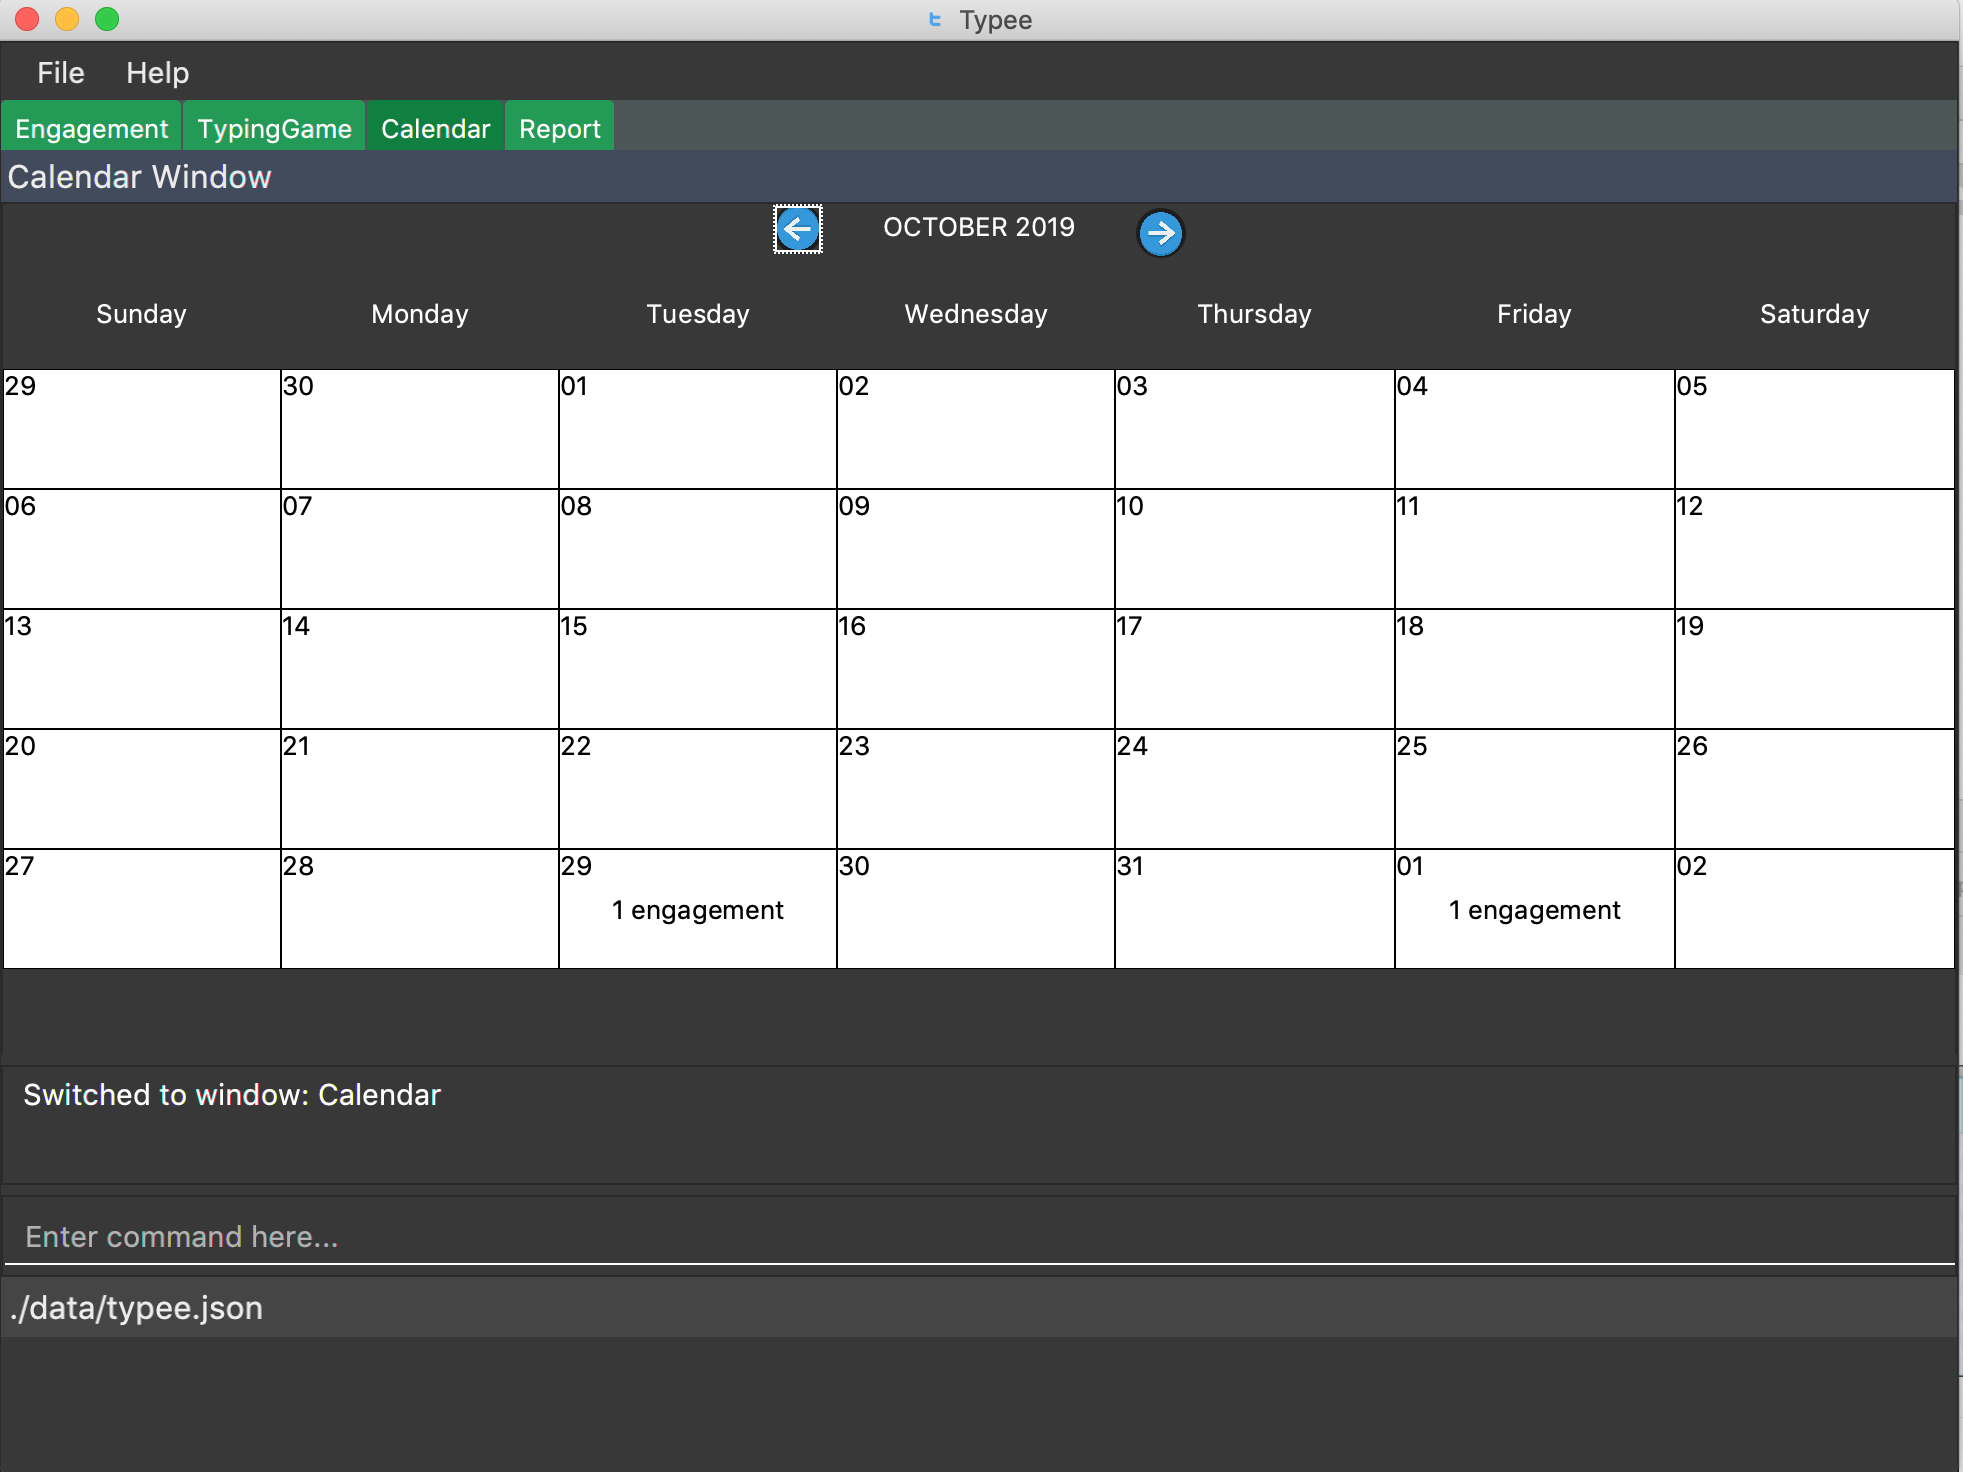
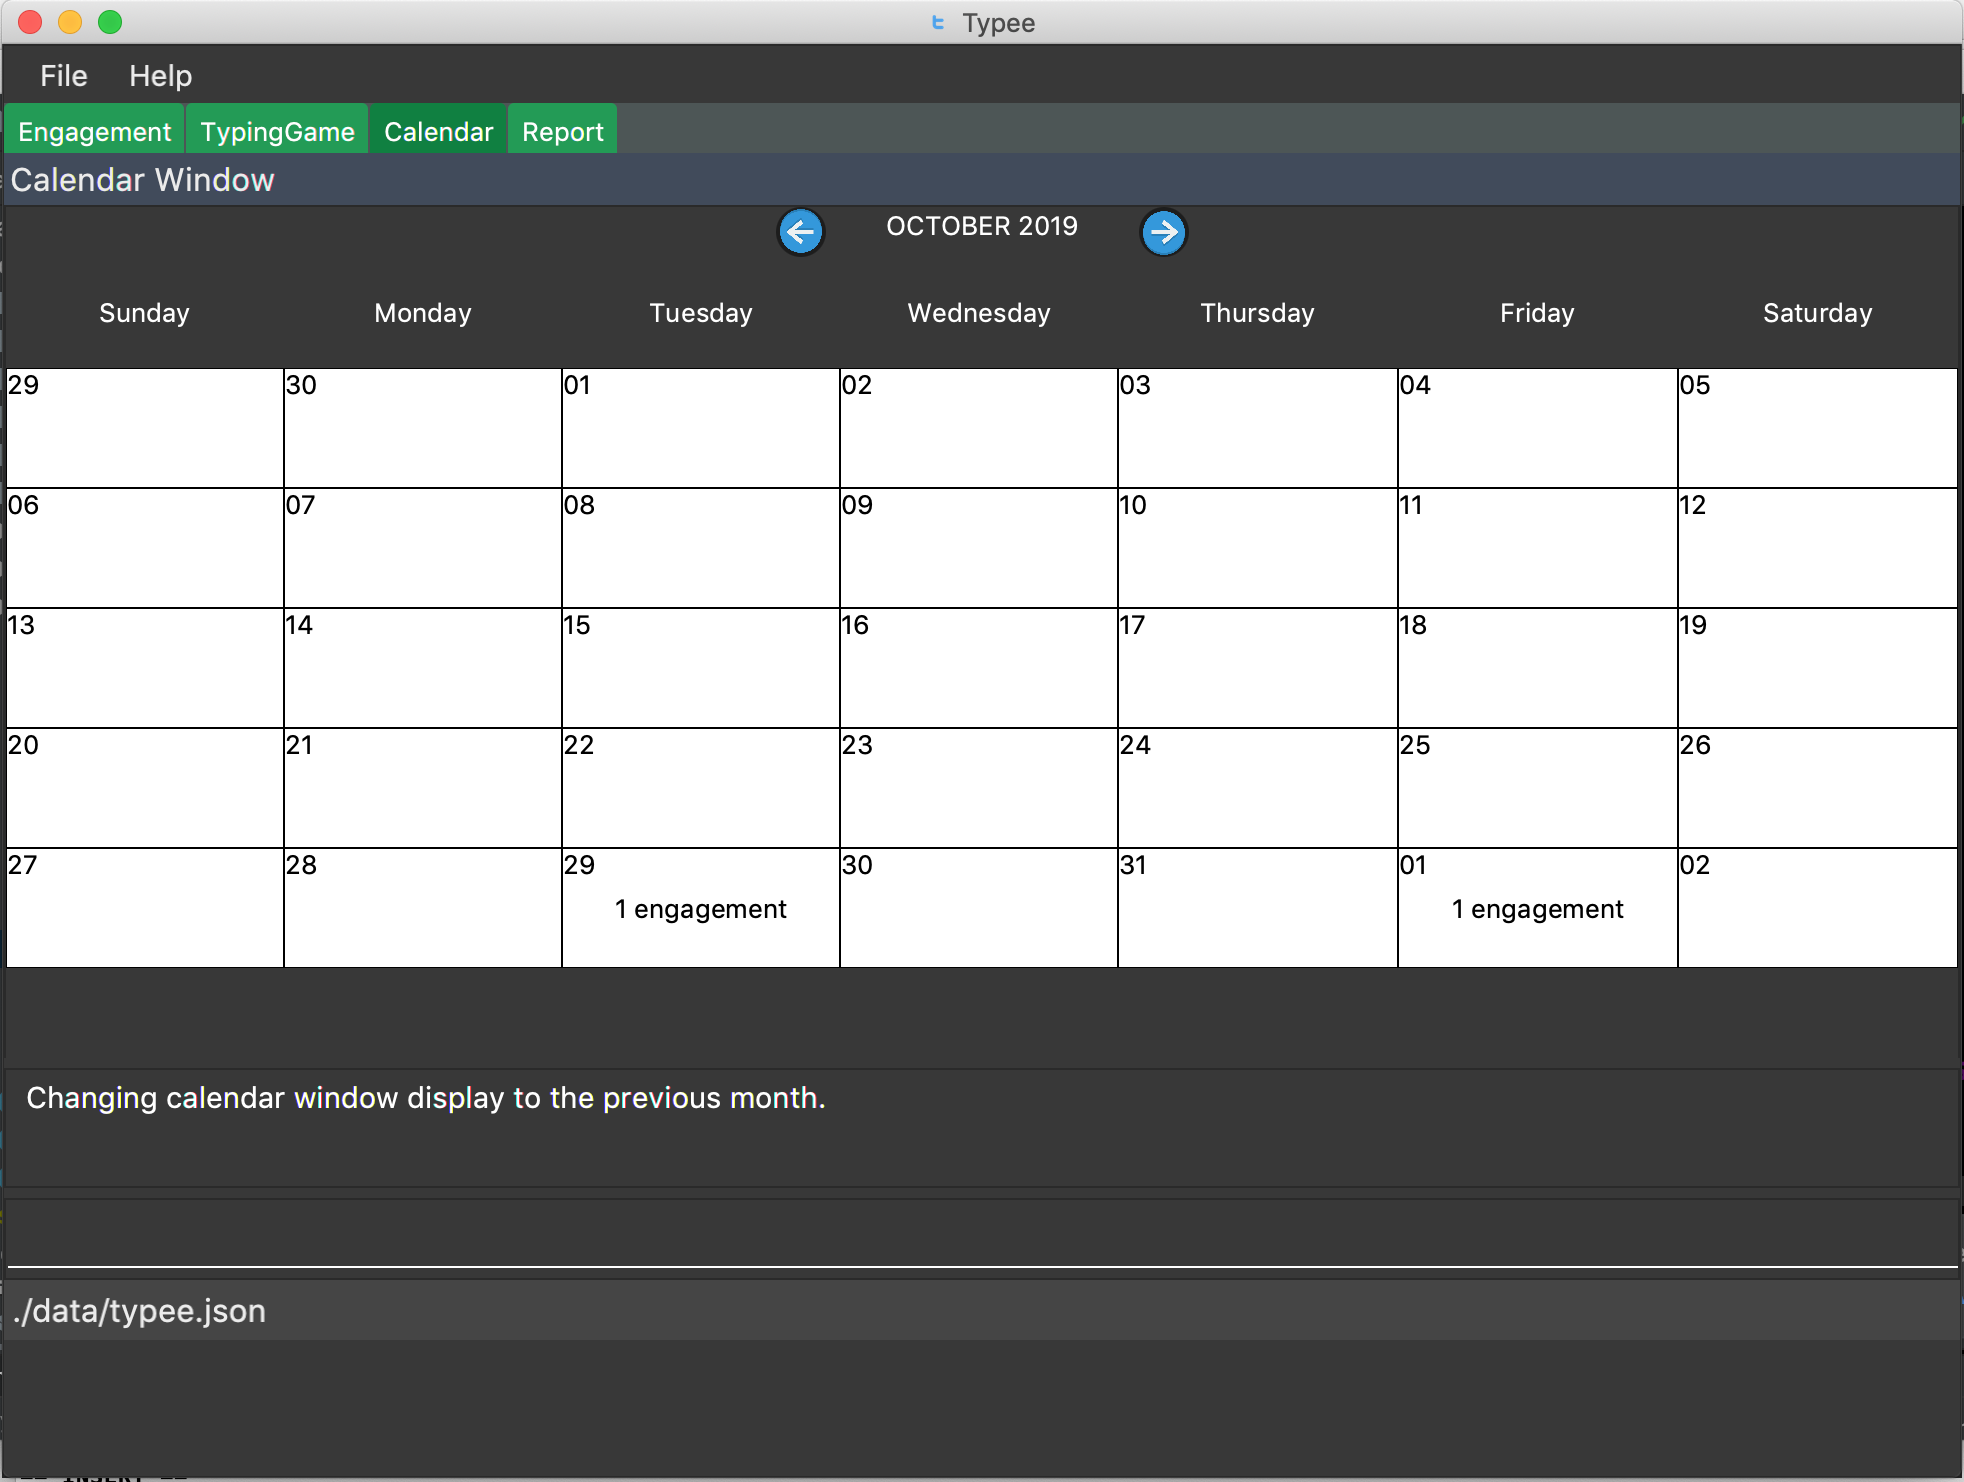
Rebuild pages at 293d61078f7ff8ae7c3274a6453d2e8e14d859ae

diff --git a/UserGuide.html b/UserGuide.html
@@ -1067,7 +1067,7 @@ The calendar&#8217;s display then switches to December 2019 and the engagement l
 <div class="paragraph">
 <p>This command does not work if the application is in another tab or the specified date is invalid.</p>
 </div>
-<div class="imageblock" style="text-align: center">
+<div class="imageblock">
 <div class="content">
 <img src="images/calendar-open-display.png" alt="calendar open display" width="450">
 </div>
@@ -1103,11 +1103,17 @@ application is in another tab or if attempting to go above the maximum allowable
 <div class="paragraph">
 <p>Format: <code>calendar c/nextmonth</code></p>
 </div>
-<div class="imageblock" style="text-align: center">
+<div class="imageblock" style="float: left">
+<div class="content">
+<img src="images/calendar-view.png" alt="calendar view" width="450">
+</div>
+<div class="title">Figure 22. Calendar view for November 2019</div>
+</div>
+<div class="imageblock left">
 <div class="content">
 <img src="images/calendar-next-month.png" alt="calendar next month" width="450">
 </div>
-<div class="title">Figure 22. Changing to the next month from November 2019</div>
+<div class="title">Figure 23. Calendar view (December 2019) after executing the <code>nextmonth</code> command</div>
 </div>
 <div class="paragraph">
 <p><br>
@@ -1127,11 +1133,17 @@ application is in another tab or if attempting to go below the minimum allowable
 <div class="paragraph">
 <p>Format: <code>calendar c/previousmonth</code></p>
 </div>
-<div class="imageblock" style="text-align: center">
+<div class="imageblock" style="float: left">
+<div class="content">
+<img src="images/calendar-view.png" alt="calendar view" width="450">
+</div>
+<div class="title">Figure 24. Calendar view for November 2019</div>
+</div>
+<div class="imageblock left">
 <div class="content">
 <img src="images/calendar-previous-month.png" alt="calendar previous month" width="450">
 </div>
-<div class="title">Figure 23. Changing to the previous month from November 2019</div>
+<div class="title">Figure 25. Calendar view (October 2019) after executing the <code>previousmonth</code> command</div>
 </div>
 <div class="paragraph">
 <p><br>
@@ -1151,7 +1163,7 @@ to change the display to the previous month. The button will not work if the cal
 <div class="content">
 <img src="images/StartWindow.png" alt="StartWindow" width="600">
 </div>
-<div class="title">Figure 24. Starting window of the TypingGame Window</div>
+<div class="title">Figure 26. Starting window of the TypingGame Window</div>
 </div>
 <div class="paragraph">
 <p>Click the <kbd>Start</kbd> button to open the game in a new window.</p>
@@ -1164,13 +1176,13 @@ the word disappears and the increase in points is reflected in the player inform
 <div class="content">
 <img src="images/GameWindow.png" alt="GameWindow" width="200">
 </div>
-<div class="title">Figure 25. Sample game play</div>
+<div class="title">Figure 27. Sample game play</div>
 </div>
 <div class="imageblock" style="float: "left">
 <div class="content">
 <img src="images/GameOver.png" alt="GameOver" width="200">
 </div>
-<div class="title">Figure 26. Sample game play when game is over</div>
+<div class="title">Figure 28. Sample game play when game is over</div>
 </div>
 <div class="admonitionblock tip">
 <table>
@@ -1268,13 +1280,13 @@ User can alternatively click the green refresh button on top right of the docume
 <div class="content">
 <img src="images/pdf_function_btns.png" alt="pdf function btns" width="450">
 </div>
-<div class="title">Figure 27. refresh button and delete button.</div>
+<div class="title">Figure 29. refresh button and delete button.</div>
 </div>
 <div class="imageblock left">
 <div class="content">
 <img src="images/pdf_2.png" alt="pdf 2" width="450">
 </div>
-<div class="title">Figure 28. After clicking refresh button</div>
+<div class="title">Figure 30. After clicking refresh button</div>
 </div>
 <div class="admonitionblock note">
 <table>
@@ -1294,7 +1306,7 @@ Do not manually modify the document file name in the <code>reports/</code> direc
 <div class="content">
 <img src="images/pdf_sample.png" alt="pdf sample" width="400">
 </div>
-<div class="title">Figure 29. pdf document sample</div>
+<div class="title">Figure 31. pdf document sample</div>
 </div>
 <div class="paragraph left">
 <p>User can also double click the list item in the documents explorer tree view to open the document file on their local computer file system. Below is the sample of generated document from the system.</p>
@@ -1314,7 +1326,7 @@ Below is the screenshot after user clicks the delete button.</p>
 <div class="content">
 <img src="images/pdf_delete_before_after.png" alt="pdf delete before after" width="750">
 </div>
-<div class="title">Figure 30. pdf delete pop up message and after click</div>
+<div class="title">Figure 32. pdf delete pop up message and after click</div>
 </div>
 <div class="paragraph">
 <p>Now, once system successfully deleted the selected document, system will display the status message above the documents explorer. Below is the screenshot of the system status message after deletion.</p>
@@ -1342,7 +1354,7 @@ PDF generation and deletion operations cannot be undone via <code>undo</code> co
 <div class="content">
 <img src="images/pdf_error_2.png" alt="pdf error 2" width="600">
 </div>
-<div class="title">Figure 31. duplicate file exception message displayed in status text field.</div>
+<div class="title">Figure 33. duplicate file exception message displayed in status text field.</div>
 </div>
 </li>
 <li>
@@ -1354,7 +1366,7 @@ PDF generation and deletion operations cannot be undone via <code>undo</code> co
 <div class="content">
 <img src="images/pdf_error_1.png" alt="pdf error 1" width="600">
 </div>
-<div class="title">Figure 32. file deletion exception message displayed in the status text field.</div>
+<div class="title">Figure 34. file deletion exception message displayed in the status text field.</div>
 </div>
 </li>
 </ol>
@@ -1466,4 +1478,4 @@ e.g. <code>delete i/3</code></p>
 </ul>
 </div>
 </div>
-</div></div><div id="footer"><div class="container"><div id="footer-text">Last updated 2019-11-11 08:07:47 UTC</div></div></div></body></html>
+</div></div><div id="footer"><div class="container"><div id="footer-text">Last updated 2019-11-11 08:49:20 UTC</div></div></div></body></html>

diff --git a/ContactUs.html b/ContactUs.html
@@ -12,4 +12,4 @@
 <p><strong>Email us</strong> : You can also reach us at <code>lyskevin@gmail.com</code> (Kevin), <code>e0318604@u.nus.edu</code> (Gi Hun), <code>yuchen_hu@u.nus.edu</code> (Yuchen), <code>e0341290@u.nus.edu</code> (Sudharshan), <code>e0309667@u.nus.edu</code> (Jun Hao)</p>
 </li>
 </ul>
-</div></div><div id="footer"><div class="container"><div id="footer-text">Last updated 2019-11-11 08:07:47 UTC</div></div></div></body></html>
+</div></div><div id="footer"><div class="container"><div id="footer-text">Last updated 2019-11-11 08:49:20 UTC</div></div></div></body></html>

diff --git a/tutorials/RemovingFields.html b/tutorials/RemovingFields.html
@@ -175,4 +175,4 @@ While keeping the <code>address</code> field in the json files does not cause th
 <p>You can go through each individual <code>json</code> file and manually remove the <code>address</code> field.</p>
 </div>
 </div>
-</div></div><div id="footer"><div class="container"><div id="footer-text">Last updated 2019-11-11 08:07:47 UTC</div></div></div></body></html>
+</div></div><div id="footer"><div class="container"><div id="footer-text">Last updated 2019-11-11 08:49:20 UTC</div></div></div></body></html>

diff --git a/Testing.html b/Testing.html
@@ -90,4 +90,4 @@ e.g. <code>seedu.address.logic.LogicManagerTest</code></p>
 <div class="title">Figure 1. <code>Accessibility</code> permission is granted to <code>IntelliJ IDEA</code></div>
 </div>
 </div>
-</div></div><div id="footer"><div class="container"><div id="footer-text">Last updated 2019-11-11 08:07:47 UTC</div></div></div></body></html>
+</div></div><div id="footer"><div class="container"><div id="footer-text">Last updated 2019-11-11 08:49:20 UTC</div></div></div></body></html>

diff --git a/tutorials/AddRemark.html b/tutorials/AddRemark.html
@@ -616,4 +616,4 @@ In this case, <code>CommandTestUtil#assertCommandSuccess</code> is the best fit 
 <p>This concludes the tutorial for adding a new <code>Command</code> to AddressBook.</p>
 </div>
 </div>
-</div></div><div id="footer"><div class="container"><div id="footer-text">Last updated 2019-11-11 08:07:47 UTC</div></div></div></body></html>
+</div></div><div id="footer"><div class="container"><div id="footer-text">Last updated 2019-11-11 08:49:20 UTC</div></div></div></body></html>

diff --git a/team/johndoe.html b/team/johndoe.html
@@ -375,4 +375,4 @@ If the <code>versionPointer</code> is at index <code>historyList.size() - 1</cod
 <p><em>{Optionally, you may include other projects in your portfolio.}</em></p>
 </div>
 </div>
-</div></div><div id="footer"><div class="container"><div id="footer-text">Last updated 2019-11-11 08:07:47 UTC</div></div></div></body></html>
+</div></div><div id="footer"><div class="container"><div id="footer-text">Last updated 2019-11-11 08:49:20 UTC</div></div></div></body></html>

diff --git a/SettingUp.html b/SettingUp.html
@@ -180,4 +180,4 @@ Having both Travis and AppVeyor ensures your App works on both Unix-based platfo
 </div>
 </div>
 </div>
-</div></div><div id="footer"><div class="container"><div id="footer-text">Last updated 2019-11-11 08:07:47 UTC</div></div></div></body></html>
+</div></div><div id="footer"><div class="container"><div id="footer-text">Last updated 2019-11-11 08:49:20 UTC</div></div></div></body></html>

diff --git a/team/jun-ha0.html b/team/jun-ha0.html
@@ -532,4 +532,4 @@ Steps 2-4 are repeated for as many rounds as required until User runs out of hea
 </div>
 </div>
 </div>
-</div></div><div id="footer"><div class="container"><div id="footer-text">Last updated 2019-11-11 08:07:47 UTC</div></div></div></body></html>
+</div></div><div id="footer"><div class="container"><div id="footer-text">Last updated 2019-11-11 08:49:20 UTC</div></div></div></body></html>

diff --git a/team/lyskevin.html b/team/lyskevin.html
@@ -459,4 +459,4 @@ The alternative would be to add fixed constraints to the size of each cell but t
 </div>
 </div>
 </div>
-</div></div><div id="footer"><div class="container"><div id="footer-text">Last updated 2019-11-11 08:07:47 UTC</div></div></div></body></html>
+</div></div><div id="footer"><div class="container"><div id="footer-text">Last updated 2019-11-11 08:49:20 UTC</div></div></div></body></html>

diff --git a/UsingCoveralls.html b/UsingCoveralls.html
@@ -111,4 +111,4 @@ If you have not set up Travis CI, see <a href="UsingTravis.html">UsingTravis.ado
 </ol>
 </div>
 </div>
-</div></div><div id="footer"><div class="container"><div id="footer-text">Last updated 2019-11-11 08:07:47 UTC</div></div></div></body></html>
+</div></div><div id="footer"><div class="container"><div id="footer-text">Last updated 2019-11-11 08:49:20 UTC</div></div></div></body></html>

diff --git a/UsingGradle.html b/UsingGradle.html
@@ -228,4 +228,4 @@ See <code>build.gradle</code> &#8594; <code>allprojects</code> &#8594; <code>dep
 </ul>
 </div>
 </div>
-</div></div><div id="footer"><div class="container"><div id="footer-text">Last updated 2019-11-11 08:07:47 UTC</div></div></div></body></html>
+</div></div><div id="footer"><div class="container"><div id="footer-text">Last updated 2019-11-11 08:49:20 UTC</div></div></div></body></html>

diff --git a/UsingNetlify.html b/UsingNetlify.html
@@ -138,4 +138,4 @@ The publish directory is the directory in which the built HTML documentation res
 </ol>
 </div>
 </div>
-</div></div><div id="footer"><div class="container"><div id="footer-text">Last updated 2019-11-11 08:07:47 UTC</div></div></div></body></html>
+</div></div><div id="footer"><div class="container"><div id="footer-text">Last updated 2019-11-11 08:49:20 UTC</div></div></div></body></html>
